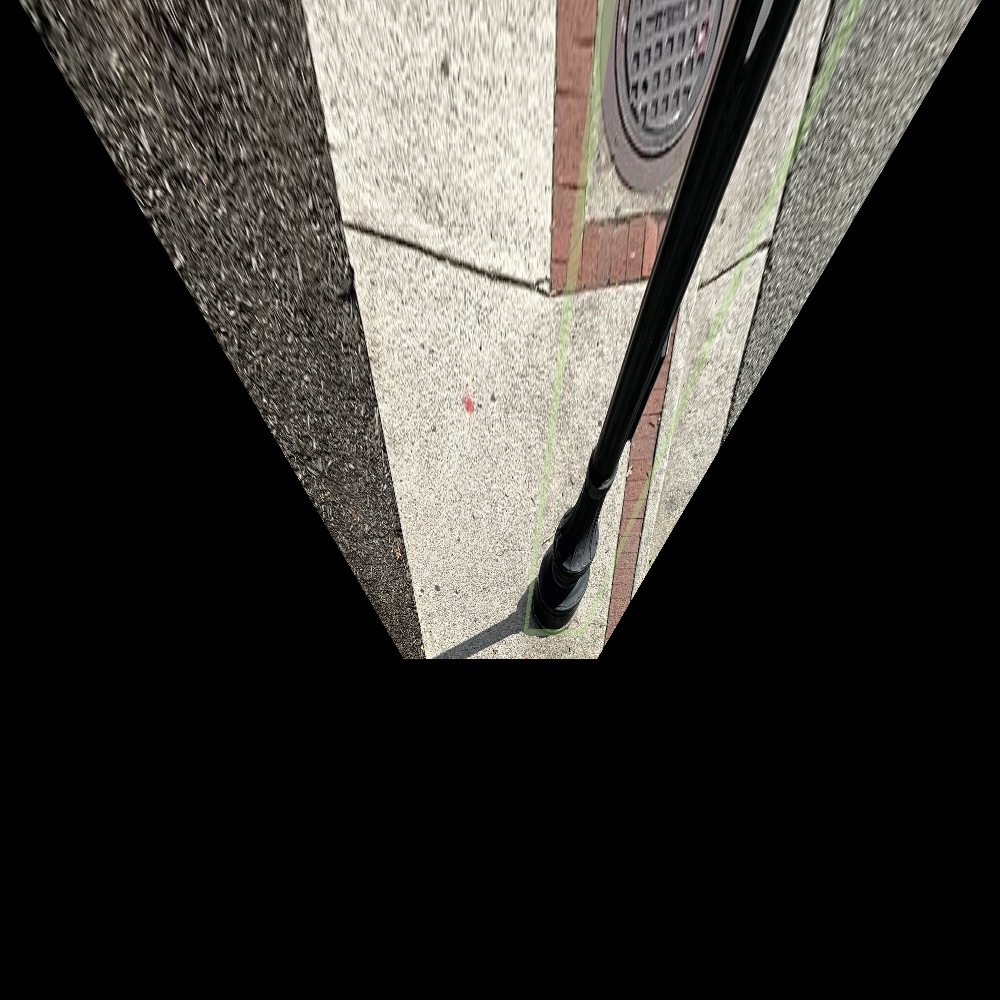
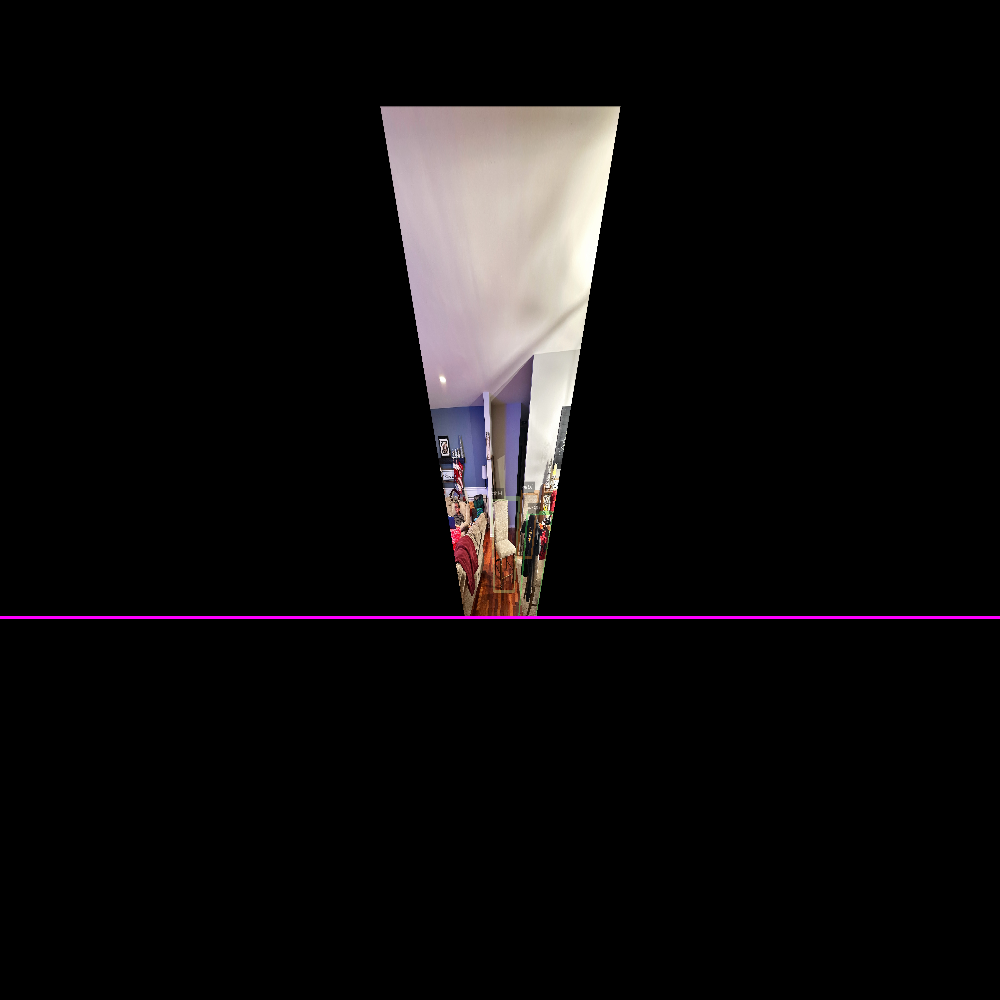
altered distance calculation pipeline

diff --git a/Object Detection/object_detect_orthophoto.py b/Object Detection/object_detect_orthophoto.py
@@ -42,12 +42,49 @@ def read_detections_from_csv(csv_file):
     scores = detections['score'].values  # Extract detection score
     return boxes, labels, scores
 
+# def set_camera_parameters():
+#     # camera extrinsics
+#     cam_height = 5 * 0.3048 # camera height in meters (5 feet)
+
+#     # pitch is rotation about the x axis that maps world->camera.
+#     pitch_deg = math.radians(-70.0)  # -70 => 70 up from horizontal = 20 downfrom vertical
+
+#     t = np.array([0.0, 0.0, float(cam_height)], dtype=float).T # camera center in world coords
+#     R = np.array([[1, 0, 0],
+#                 [0, math.cos(pitch_deg), -math.sin(pitch_deg)],
+#                 [0, math.sin(pitch_deg), math.cos(pitch_deg)]], dtype=float) # rotation about x axis
+
+#     '''
+#     Use -70 because R is from world to camera coords, so negative pitch tilts camera 'up' relative to ground plane
+#     '''
+
+#     T = -R @ t # translation vector from world to camera coords
+
+#     # camera intrinsics
+
+#     '''
+#     K = [[1030.21,    0.0, 640.0],
+#         [   0.0, 1030.21, 360.0],
+#         [   0.0,    0.0,   1.0]]
+#     '''
+
+#     focal_length = 1030.21 # focal length in pixels
+#     sensor_width = 3.99 # sensor width in mm
+
+#     cx = 1280 / 2.0
+#     cy = 720 / 2.0
+#     K = np.array([[focal_length, 0, cx],
+#                 [0, focal_length, cy],
+#                 [0,   0,  1]], dtype=float)
+#     Kinv = np.linalg.inv(K)
+#     return K, Kinv, R, t
+
 def set_camera_parameters():
     # camera extrinsics
     cam_height = 5 * 0.3048 # camera height in meters (5 feet)
 
     # pitch is rotation about the x axis that maps world->camera.
-    pitch_deg = math.radians(-70.0)  # -70 => 70 up from horizontal = 20 downfrom vertical
+    pitch_deg = math.radians(-66.0)  # -70 => 70 up from horizontal = 20 downfrom vertical
 
     t = np.array([0.0, 0.0, float(cam_height)], dtype=float).T # camera center in world coords
     R = np.array([[1, 0, 0],
@@ -68,11 +105,11 @@ def set_camera_parameters():
         [   0.0,    0.0,   1.0]]
     '''
 
-    focal_length = 1030.21 # focal length in pixels
+    focal_length = 3112.5 # focal length in pixels
     sensor_width = 3.99 # sensor width in mm
 
-    cx = 1280 / 2.0
-    cy = 720 / 2.0
+    cx = 1125 / 2.0
+    cy = 1500 / 2.0
     K = np.array([[focal_length, 0, cx],
                 [0, focal_length, cy],
                 [0,   0,  1]], dtype=float)
@@ -126,20 +163,24 @@ def back_project(img, Kinv, R, t):
     pts_ground = np.stack([X, Y, Z], axis=1) # Nx3 array of ground points
     return X, Y, Z, xs, ys
 
-def pixel_to_world_ground(x_pix, y_pix, K, Kinv, R, t):
+def pixel_to_world_ground(x_pix, y_pix, K, Kinv, R, t, debug=False):
     """Convert a pixel coordinate to world ground plane (Z=0) coordinates."""
     pix_H = np.array([x_pix, y_pix, 1.0])
     d_c = Kinv @ pix_H
     d_w = R.T @ d_c
     
+    
     # Intersection with ground plane
     if abs(d_w[2]) < 1e-10:
-        print("Direction vector is parallel to ground plane.")
+        print(f"      ❌ FAIL: d_w[2] too close to zero (ray parallel to ground)")
         return None, None
     
-    s = -t[2] / d_w[2]
+    s = t[2] / d_w[2]
+    
     if s <= 0:
-        print("Point is behind the camera.")
+        print(f"      ❌ FAIL: s={s:.3f} <= 0 (ray pointing behind camera)")
+        print(f"      This shouldn't happen since d_w[2] > 0 and t[2] > 0")
+        print(f"      CHECK: Is t[2] actually the camera height?")
         return None, None
     
     X_world = t[0] + s * d_w[0]
@@ -147,13 +188,19 @@ def pixel_to_world_ground(x_pix, y_pix, K, Kinv, R, t):
     
     return X_world, Y_world
 
-def world_to_ortho_pixel(X_world, Y_world, xmin, ymin, ortho_scale):
+def world_to_ortho_pixel(X_world, Y_world, xmin, ymin, ortho_scale, ymax=None):
     """Convert world ground coordinates to orthophoto pixel coordinates."""
     ortho_x = (X_world - xmin) / ortho_scale
-    ortho_y = (Y_world - ymin) / ortho_scale
+    
+    # If ymax is provided, flip Y axis so larger Y_world appears at top of image
+    if ymax is not None:
+        ortho_y = (ymax - Y_world) / ortho_scale
+    else:
+        ortho_y = (Y_world - ymin) / ortho_scale
+    
     return ortho_x, ortho_y
 
-def create_orthophoto_with_detections(img, K, R, t, boxes, labels, scores, output_image, X, Y, Z, xs, ys):
+def create_orthophoto_with_detections(img, K, Kinv, R, t, boxes, labels, scores, output_image, X, Y, Z, xs, ys):
     # Create ORTHOPHOTO image via homography
     h_img, w_img, _ = img.shape
     img_rgb = cv2.cvtColor(img, cv2.COLOR_BGR2RGB) # convert to RGB
@@ -234,10 +281,22 @@ def create_orthophoto_with_detections(img, K, R, t, boxes, labels, scores, outpu
     # details from https://docs.opencv.org/4.x/da/d54/group__imgproc__transform.html#ga6f6f4f5f1a4f5aa3f6b2c5f1e3c8b8e1
 
 
-    # Calculate Camera Position in Orthophoto
-    cam_world_x, cam_world_y = t[0], t[1]
-    cam_ortho_x, cam_ortho_y = world_to_ortho_pixel(cam_world_x, cam_world_y, xmin, ymin, ortho_scale)
+    #determine the pixel of the image bottom edge
+    print(f"\n[DEBUG] Finding bottom edge of image content...")
+    
+    gray = cv2.cvtColor(orthophoto, cv2.COLOR_BGR2GRAY)
+    
+    image_bottom_y = None
+    for y in range(ortho_height - 1, -1, -1):
+        row = gray[y, :]
+        if np.any(row > 1):  # Found non-black pixels
+            image_bottom_y = y
+            print(f"  Found image content at y={y}")
+            break
 
+    # Draw line indicating bottom edge of image content
+    cv2.line(orthophoto, (0, image_bottom_y), (ortho_width, image_bottom_y), (255, 0, 255), 2)
+    print(f"[DEBUG] Image bottom edge at y={image_bottom_y} pixels in orthophoto.")
 
     #Process detected boxes to map to orthophoto coordinates
     detection_results = {}
@@ -248,24 +307,28 @@ def create_orthophoto_with_detections(img, K, R, t, boxes, labels, scores, outpu
         bottom_center_x = (x1 + x2) / 2.0
         bottom_center_y = y2
 
-        print(bottom_center_x, bottom_center_y)
+        #print(bottom_center_x, bottom_center_y)
 
         Xw, Yw = pixel_to_world_ground(bottom_center_x, bottom_center_y, K, Kinv, R, t)
-        print(Xw, Yw)
-        if Xw is None or Yw is None:
-            print(f"Skipping detection {i} due to invalid world coordinates.")
-            continue
-        ortho_x, ortho_y = world_to_ortho_pixel(Xw, Yw, xmin, ymin, ortho_scale)
+        print(f"Distance of obeject {label} (score: {score:.2f}) forward: {abs(Yw):.2f} meters, {abs(Yw)*39.3701:.2f} inches")
 
-        # Draw detection on orthophoto
-        cv2.circle(orthophoto, (int(ortho_x), int(ortho_y)), 5, (255, 0, 0), -1)
-        cv2.putText(orthophoto, f"{label}", (int(ortho_x) + 10, int(ortho_y)), 
-                   cv2.FONT_HERSHEY_SIMPLEX, 0.4, (255, 0, 0), 1)
+        # if Xw is None or Yw is None:
+        #     print(f"Skipping detection {i} due to invalid world coordinates.")
+        #     continue
+        # ortho_x, ortho_y = world_to_ortho_pixel(Xw, Yw, xmin, ymin, ortho_scale, ymax)
+        # ortho_y = ortho_y - (ortho_height - image_bottom_y)  # Flip Y for image coordinates
+
+        # # Draw detection on orthophoto
+        # print("Debug for detection")
+        # print(f"ortho_y: {ortho_y}, image_bottom_y: {image_bottom_y}, ortho_height: {ortho_height}")
+        # cv2.circle(orthophoto, (int(ortho_x), int(ortho_y)), 5, (255, 0, 0), -1)
+        # cv2.putText(orthophoto, f"{label}", (int(ortho_x) + 10, int(ortho_y)), 
+        #            cv2.FONT_HERSHEY_SIMPLEX, 0.4, (255, 0, 0), 1)
 
         # Store new box coordinates
         detection_results[f"{label}_{i}"] = {
             'world_coordinates': (Xw, Yw),
-            'ortho_pixel_coordinates': (ortho_x, ortho_y)
+            #'ortho_pixel_coordinates': (ortho_x, ortho_y)
         }
 
         
@@ -276,28 +339,25 @@ def create_orthophoto_with_detections(img, K, R, t, boxes, labels, scores, outpu
     cv2.imwrite(output_filename, orthophoto)
     print("Successful.")
 
-    return detection_results, cam_world_x, cam_world_y, xmin, ymin, ortho_scale
+    return detection_results, xmin, ymin, ymax, image_bottom_y, ortho_scale
 
-def calculate_distance_to_object(detection_results, camera_world_x, camera_world_y, object_label):
-    i= 0
+def calculate_distance_to_object(detection_results, img_bottom, object_label):
     for key, data in detection_results.items():
-            i +=1
             if object_label in key:
                 obj_x, obj_y = data['world_coordinates']
-                distance = math.sqrt((obj_x - camera_world_x)**2 + (obj_y - camera_world_y)**2)
+                distance = abs(obj_y - img_bottom) 
+                distance *= 0.005  # Convert pixels to meters using ortho_scale
                 print(f"Distance to {object_label}: {distance:.2f} meters")
                 return distance
             else:
                 print(f"No detection found for label: {object_label}")
-    if i == 0 :
-        print(f"No detections available to calculate distance for label: {object_label}")
     
 
 if __name__ == "__main__":
     #Set camera parameters
     K, Kinv, R, t = set_camera_parameters()
 
-    image_file = "INPUT/1758997651495.jpg"
+    image_file = "INPUT/chair.jpg"
     output_image = "OUTPUT/orthophoto_with_detections.png"
 
     # Ensure output directory exists
@@ -320,18 +380,33 @@ if __name__ == "__main__":
     #Back project and create orthophoto from image with detections
     X, Y, Z, xs, ys = back_project(img, Kinv, R, t)
     detected_image = cv2.imread(output_detection_image)
-    detection_results, cam_world_x, cam_world_y, xmin, ymin, ortho_scale = create_orthophoto_with_detections(detected_image, K, R, t, boxes, labels, scores, output_image, X, Y, Z, xs, ys)
+    detection_results, xmin, ymin, ymax, image_bottom_y, ortho_scale = create_orthophoto_with_detections(detected_image, K, Kinv, R, t, boxes, labels, scores, output_image, X, Y, Z, xs, ys)
 
-    print("Detection Results with World and Ortho Coordinates:")
-    for key, data in detection_results.items():
-        print(f"{key}: World Coords: {data['world_coordinates']}, Ortho Pixel Coords: {data['ortho_pixel_coordinates']}")
+    # print("Detection Results with World and Ortho Coordinates:")
+    # for key, data in detection_results.items():
+    #     print(f"{key}: World Coords: {data['world_coordinates']}, Ortho Pixel Coords: {data['ortho_pixel_coordinates']}")
 
-    #Calculate distance to all objects detected
-    for key in detection_results.keys():
-        label = key.split('_',1)[0]  # Extract label from key
-        calculate_distance_to_object(detection_results, cam_world_x, cam_world_y, label)
+    # #Calculate distance to all objects detected
+    # for key in detection_results.keys():
+    #     label = key.split('_',1)[0]  # Extract label from key
+    #     calculate_distance_to_object(detection_results, image_bottom_y, label)
 
-    
+    # #run the ortho photo through edge detection
+    # # Load the orthophoto image
+    # ortho_img = cv2.imread("OUTPUT/output_ortho.png")
+    # if ortho_img is None:
+    #     print("Failed to read orthophoto image:", output_image)
+    #     exit(1)
+
+    # # Convert to grayscale
+    # gray_ortho = cv2.cvtColor(ortho_img, cv2.COLOR_BGR2GRAY)
+    # # Apply Canny edge detection
+    # edges = cv2.Canny(gray_ortho, 100, 200)
+    # # Save the edge-detected image
+    # edge_output_image = "OUTPUT/orthophoto_edges.png"
+    # os.makedirs(os.path.dirname(edge_output_image), exist_ok=True)
+    # cv2.imwrite(edge_output_image, edges)
+    # print("Edge-detected orthophoto saved to", edge_output_image)
         
 
 
